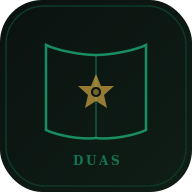
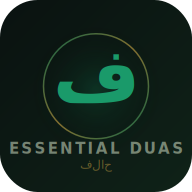
Brand the app with فلاح (Fallah) identity
- Logo: ف letter inside crescent ring (CSS, emerald+gold)
- Top nav: فلاح logo + 'Essential Duas' replaces plain text
- Hero: 'by المهندس محمد فلاح' credit under subtitle
- Footer: فلاح logo + full credit + © 2025
- Splash screen: Animated ف logo on first load (2.2s)
- Share text: 'Essential Duas by فلاح' in all share flows
- Share image: ف watermark + 'فلاح' branding
- PWA icons: Regenerated with ف + crescent design
- Manifest: Updated name/description with فلاح branding
- Service worker cache v4

diff --git a/index.html b/index.html
@@ -7,7 +7,7 @@
     <meta name="apple-mobile-web-app-capable" content="yes">
     <meta name="apple-mobile-web-app-status-bar-style" content="black-translucent">
     <meta name="description" content="The Crown Collection — 55 essential Islamic duas from the Quran and Sunnah, with tasbeeh counter, bookmarks, daily routines, and scholarly authentication.">
-    <title>Essential Duas — The Crown Collection</title>
+    <title>Essential Duas by فلاح — The Crown Collection</title>
 
     <link rel="manifest" href="manifest.json">
     <link rel="apple-touch-icon" href="icon-192.png">
@@ -158,6 +158,148 @@
         /* ============================================ */
         /* ===== TOP NAVIGATION ===== */
         /* ============================================ */
+
+        /* ===== FALLAH LOGO ===== */
+        .fallah-logo {
+            display: flex; align-items: center; gap: 10px;
+            text-decoration: none; cursor: pointer;
+        }
+        .fallah-mark {
+            position: relative; width: 36px; height: 36px;
+            display: flex; align-items: center; justify-content: center;
+        }
+        .fallah-crescent {
+            position: absolute; width: 32px; height: 32px;
+            border: 2px solid transparent;
+            border-radius: 50%;
+            background: conic-gradient(from 200deg, var(--emerald-light), var(--gold-mid), var(--emerald-light)) border-box;
+            -webkit-mask: linear-gradient(#fff 0 0) padding-box, linear-gradient(#fff 0 0);
+            -webkit-mask-composite: xor;
+            mask-composite: exclude;
+            opacity: 0.7;
+        }
+        .fallah-fa {
+            font-family: var(--font-arabic); font-size: 1.35rem;
+            color: var(--emerald-light); font-weight: 700;
+            position: relative; z-index: 1; line-height: 1;
+            text-shadow: 0 0 12px rgba(13, 107, 71, 0.3);
+        }
+        .fallah-text {
+            display: flex; flex-direction: column;
+        }
+        .fallah-brand {
+            font-family: var(--font-title); font-size: 0.7rem;
+            letter-spacing: 1.5px;
+            background: linear-gradient(135deg, #1b5e20, #81c784, #2e7d32);
+            -webkit-background-clip: text; -webkit-text-fill-color: transparent;
+            background-clip: text; font-weight: 700; text-transform: uppercase;
+        }
+        .fallah-sub {
+            font-family: var(--font-arabic); font-size: 0.55rem;
+            color: var(--gold-mid); opacity: 0.6; margin-top: -1px;
+        }
+
+        /* ===== SPLASH SCREEN ===== */
+        .splash-screen {
+            position: fixed; top: 0; left: 0; right: 0; bottom: 0;
+            background: radial-gradient(ellipse at center, #0f2218 0%, #0a1210 70%);
+            z-index: 10000;
+            display: flex; flex-direction: column;
+            align-items: center; justify-content: center;
+            transition: opacity 0.8s ease, visibility 0.8s ease;
+        }
+        .splash-screen.hidden {
+            opacity: 0; visibility: hidden; pointer-events: none;
+        }
+        .splash-logo-large {
+            position: relative; width: 100px; height: 100px;
+            display: flex; align-items: center; justify-content: center;
+            animation: splashPulse 2s ease-in-out infinite;
+        }
+        .splash-crescent-lg {
+            position: absolute; width: 90px; height: 90px;
+            border: 2.5px solid transparent;
+            border-radius: 50%;
+            background: conic-gradient(from 200deg, var(--emerald-light), var(--gold-mid), var(--emerald-light)) border-box;
+            -webkit-mask: linear-gradient(#fff 0 0) padding-box, linear-gradient(#fff 0 0);
+            -webkit-mask-composite: xor;
+            mask-composite: exclude;
+            animation: splashRingSpin 3s linear infinite;
+        }
+        .splash-fa-lg {
+            font-family: var(--font-arabic); font-size: 3.5rem;
+            color: var(--emerald-light); font-weight: 700;
+            position: relative; z-index: 1;
+            text-shadow: 0 0 30px rgba(13, 107, 71, 0.4);
+            opacity: 0; animation: splashFadeIn 0.8s ease-out 0.3s forwards;
+        }
+        .splash-title {
+            font-family: var(--font-title); font-size: 0.75rem;
+            letter-spacing: 4px; text-transform: uppercase;
+            color: var(--emerald-light); margin-top: 24px;
+            opacity: 0; animation: splashFadeIn 0.8s ease-out 0.6s forwards;
+        }
+        .splash-subtitle {
+            font-family: var(--font-text); font-size: 0.85rem;
+            color: var(--gold-mid); opacity: 0; font-style: italic;
+            animation: splashFadeIn 0.8s ease-out 0.9s forwards;
+            margin-top: 6px;
+        }
+        .splash-credit {
+            font-family: var(--font-arabic); font-size: 0.75rem;
+            color: var(--text-subtle); opacity: 0;
+            animation: splashFadeIn 0.8s ease-out 1.2s forwards;
+            margin-top: 20px;
+        }
+        @keyframes splashPulse {
+            0%, 100% { transform: scale(1); }
+            50% { transform: scale(1.04); }
+        }
+        @keyframes splashRingSpin {
+            from { transform: rotate(0deg); }
+            to { transform: rotate(360deg); }
+        }
+        @keyframes splashFadeIn {
+            from { opacity: 0; transform: translateY(10px); }
+            to { opacity: 1; transform: translateY(0); }
+        }
+        [data-theme="light"] .splash-screen {
+            background: radial-gradient(ellipse at center, #f0ede4 0%, #f5f2eb 70%);
+        }
+
+        /* ===== FOOTER BRAND ===== */
+        .footer-brand-row {
+            display: flex; align-items: center; justify-content: center;
+            gap: 10px; margin-top: 16px; margin-bottom: 4px;
+        }
+        .footer-logo-mini {
+            position: relative; width: 28px; height: 28px;
+            display: flex; align-items: center; justify-content: center;
+        }
+        .footer-crescent {
+            position: absolute; width: 24px; height: 24px;
+            border: 1.5px solid transparent; border-radius: 50%;
+            background: conic-gradient(from 200deg, var(--emerald-light), var(--gold-mid), var(--emerald-light)) border-box;
+            -webkit-mask: linear-gradient(#fff 0 0) padding-box, linear-gradient(#fff 0 0);
+            -webkit-mask-composite: xor; mask-composite: exclude;
+            opacity: 0.5;
+        }
+        .footer-fa-mini {
+            font-family: var(--font-arabic); font-size: 0.95rem;
+            color: var(--emerald-light); font-weight: 700;
+            position: relative; z-index: 1; opacity: 0.6;
+        }
+        .footer-credit-text {
+            font-family: var(--font-title); font-size: 0.4rem;
+            letter-spacing: 2px; text-transform: uppercase;
+            color: rgba(224, 238, 210, 0.35);
+        }
+        .footer-copyright {
+            font-family: var(--font-title); font-size: 0.4rem;
+            letter-spacing: 1.5px; color: rgba(224, 238, 210, 0.2);
+            margin-top: 8px;
+        }
+
         .top-nav {
             position: fixed; top: 0; left: 0; right: 0;
             height: calc(var(--nav-height) + var(--safe-top));
@@ -1573,12 +1715,32 @@
 </head>
 
     <body>
+<!-- ===== SPLASH SCREEN ===== -->
+<div class="splash-screen" id="splashScreen">
+    <div class="splash-logo-large">
+        <div class="splash-crescent-lg"></div>
+        <span class="splash-fa-lg">ف</span>
+    </div>
+    <div class="splash-title">Essential Duas</div>
+    <div class="splash-subtitle">The Crown Collection</div>
+    <div class="splash-credit">المهندس محمد فلاح</div>
+</div>
+
 <!-- Skip to content for accessibility -->
 <a href="#mainContainer" class="skip-link">Skip to Duas</a>
 
 <!-- ===== TOP NAVIGATION ===== -->
 <nav class="top-nav" id="topNav">
-    <span class="nav-title">Essential Duas</span>
+    <div class="fallah-logo" onclick="scrollToTop()">
+        <div class="fallah-mark">
+            <div class="fallah-crescent"></div>
+            <span class="fallah-fa">ف</span>
+        </div>
+        <div class="fallah-text">
+            <span class="fallah-brand">Essential Duas</span>
+            <span class="fallah-sub">فلاح</span>
+        </div>
+    </div>
     <div class="nav-actions">
         <div class="font-controls">
             <button class="font-btn" onclick="adjustFontSize(-0.1)" title="Smaller text">A-</button>
@@ -1613,6 +1775,7 @@
 
             <h1 class="gold-text">Essential Duas</h1>
             <div class="subtitle">The Crown Collection from Quran & Sunnah</div>
+            <div style="font-family:var(--font-arabic);font-size:0.8rem;color:var(--gold-mid);opacity:0.55;margin-top:4px;">by المهندس محمد فلاح</div>
 
             <p class="intro-text">
                 A meticulously curated treasury of the most powerful supplications
@@ -3962,6 +4125,15 @@
 
     // ===== INITIALIZATION =====
     function init() {
+        // Dismiss splash screen
+        const splash = document.getElementById('splashScreen');
+        if (splash) {
+            setTimeout(() => {
+                splash.classList.add('hidden');
+                setTimeout(() => splash.remove(), 1000);
+            }, 2200);
+        }
+
         updateStats();
         checkStreak();
         loadDailyDua();
@@ -4481,8 +4653,8 @@ window.filterCategory = function(cat, btn) {
     window.sharePage = function() {
         if (navigator.share) {
             navigator.share({
-                title: 'Essential Duas - The Crown Collection',
-                text: '55 Essential Islamic Duas from Quran & Sunnah',
+                title: 'Essential Duas by فلاح',
+                text: '55 Essential Islamic Duas from Quran & Sunnah — by Engineer Mohammad Falah',
                 url: window.location.href
             });
         } else {
@@ -4497,7 +4669,7 @@ window.filterCategory = function(cat, btn) {
         if (!card) return;
         const title = card.querySelector('.dua-title').textContent;
         const arabic = card.querySelector('.arabic-text').textContent;
-        const text = `${title}\n\n${arabic}\n\nFrom: Essential Duas — The Crown Collection\n${window.location.href}`;
+        const text = `${title}\n\n${arabic}\n\nFrom: Essential Duas by فلاح\n${window.location.href}`;
         if (navigator.share) {
             navigator.share({ title: title, text: text });
         } else {
@@ -5154,7 +5326,8 @@ window.filterCategory = function(cat, btn) {
         `;
         wrap.innerHTML = `
             <div style="text-align:center;margin-bottom:24px;">
-                <div style="font-family:'Cinzel',serif;font-size:11px;letter-spacing:3px;text-transform:uppercase;color:#1a9a6a;margin-bottom:6px;">Essential Duas — The Crown Collection</div>
+                <div style="font-family:'Noto Naskh Arabic','Amiri',serif;font-size:16px;color:#1a9a6a;margin-bottom:4px;">ف</div>
+                <div style="font-family:'Cinzel',serif;font-size:11px;letter-spacing:3px;text-transform:uppercase;color:#1a9a6a;margin-bottom:6px;">Essential Duas by فلاح</div>
                 <div style="font-family:'Cinzel',serif;font-size:13px;letter-spacing:1px;text-transform:uppercase;color:#e0eccc;font-weight:600;">${title.replace(/<[^>]*>/g,'')}</div>
             </div>
             <div style="background:rgba(13,107,71,0.06);border:1px solid rgba(13,107,71,0.15);border-radius:16px;padding:28px 24px;margin-bottom:20px;">
@@ -5163,7 +5336,7 @@ window.filterCategory = function(cat, btn) {
             <div style="font-family:'Playfair Display',serif;font-size:15px;color:rgba(224,238,210,0.85);line-height:1.8;font-style:italic;margin-bottom:16px;">${translation}</div>
             <div style="display:flex;justify-content:space-between;align-items:center;padding-top:14px;border-top:1px solid rgba(13,107,71,0.12);">
                 <span style="font-family:'Cinzel',serif;font-size:9px;letter-spacing:1px;text-transform:uppercase;color:rgba(160,210,180,0.55);">📖 ${ref}</span>
-                <span style="font-family:'Cinzel',serif;font-size:9px;letter-spacing:1px;text-transform:uppercase;color:rgba(160,210,180,0.35);">mohhp.github.io/Essential-duas</span>
+                <span style="font-family:'Cinzel',serif;font-size:9px;letter-spacing:1px;text-transform:uppercase;color:rgba(160,210,180,0.35);">فلاح · mohhp.github.io/Essential-duas</span>
             </div>
         `;
         document.body.appendChild(wrap);
@@ -5191,7 +5364,7 @@ window.filterCategory = function(cat, btn) {
                         await navigator.share({
                             files: [new File([blob], 'dua.png', { type: 'image/png' })],
                             title: title,
-                            text: 'From Essential Duas — The Crown Collection'
+                            text: 'From Essential Duas by فلاح'
                         });
                         showToast('Shared!');
                         return;
@@ -5267,6 +5440,14 @@ window.filterCategory = function(cat, btn) {
         The Crown Collection<br>
         55 Essential Duas from Quran & Sunnah
     </div>
+    <div class="footer-brand-row">
+        <div class="footer-logo-mini">
+            <div class="footer-crescent"></div>
+            <span class="footer-fa-mini">ف</span>
+        </div>
+        <span class="footer-credit-text">Engineer Mohammad Falah · المهندس محمد فلاح</span>
+    </div>
+    <div class="footer-copyright">© 2025 فلاح · All rights reserved</div>
     <div class="footer-arabic">سُبْحَانَكَ اللَّهُمَّ وَبِحَمْدِكَ أَشْهَدُ أَنْ لَا إِلَٰهَ إِلَّا أَنْتَ أَسْتَغْفِرُكَ وَأَتُوبُ إِلَيْكَ</div>
 </footer>
 

diff --git a/sw.js b/sw.js
@@ -1,4 +1,4 @@
-const CACHE_NAME = 'essential-duas-v3';
+const CACHE_NAME = 'essential-duas-v4';
 const ASSETS = [
   './',
   './index.html',
